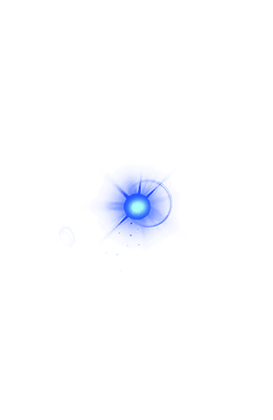
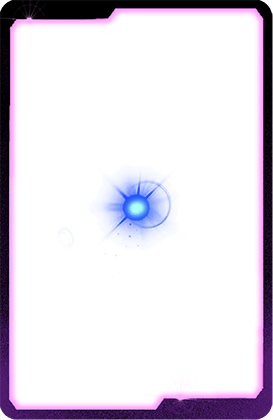
cache rage cards

diff --git a/src/constants/cacheUrls.ts b/src/constants/cacheUrls.ts
@@ -1,5 +1,6 @@
 import { MODIFIERS_RARITY } from "../data/modifiers";
 import { POWER_UP_KEYS } from "../data/powerups";
+import { RAGES_RARITY } from "../data/rageCards";
 import { SPECIALS_RARITY } from "../data/specialCards";
 import { CARDS_SUIT_DATA } from "../data/traditionalCards";
 
@@ -30,6 +31,16 @@ export const getDefaultImageUrls = async (): Promise<string[]> => {
     imageUrls.push(`Cards/3d/${key}-l0.png`);
     imageUrls.push(`Cards/3d/${key}-l1.png`);
     imageUrls.push(`Cards/3d/${key}-l2.png`);
+    imageUrls.push(`Cards/3d/${key}-l3.png`);
+  });
+
+  // Rage cards
+  Object.keys(RAGES_RARITY).forEach((key) => {
+    imageUrls.push(`Cards/${key}.png`);
+    imageUrls.push(`Cards/3d/${key}-l0.png`);
+    imageUrls.push(`Cards/3d/${key}-l1.png`);
+    imageUrls.push(`Cards/3d/${key}-l2.png`);
+    imageUrls.push(`Cards/3d/${key}-l3.png`);
   });
 
   // Backgrounds

diff --git a/src/providers/CardDataProvider.tsx b/src/providers/CardDataProvider.tsx
@@ -20,6 +20,7 @@ import {
 import { useDojo } from "../dojo/useDojo.tsx";
 import { CardTypes } from "../enums/cardTypes.ts";
 import { CardData } from "../types/CardData.ts";
+import { RAGES_RARITY } from "../data/rageCards.ts";
 
 interface CardDataContextType {
   getCardData: (id: number) => CardData;
@@ -76,10 +77,12 @@ export const CardDataProvider = ({ children }: CardDataProviderProps) => {
     const isModifier = cardId >= 600 && cardId < 700;
 
     if (isRage) {
+      const rarity = RAGES_RARITY[cardId];
       return {
         name: t(`rageCards.${cardId}.name`),
         description: t(`rageCards.${cardId}.description`),
         type: CardTypes.RAGE,
+        rarity,
       };
     } else if (isSpecial) {
       const rarity = SPECIALS_RARITY[cardId];

diff --git a/src/data/rageCards.ts b/src/data/rageCards.ts
@@ -1,0 +1,23 @@
+import { RARITY } from "../constants/rarity";
+
+export const RAGES_RARITY: Record<number, RARITY> = {
+  // C Grade
+  401: RARITY.C, // SILENT_HEARTS
+  402: RARITY.C, // SILENT_CLUBS
+  403: RARITY.C, // SILENT_DIAMONDS
+  404: RARITY.C, // SILENT_SPADES
+  412: RARITY.C, // SILENT_FIGURES
+  421: RARITY.C, // BETRAYING_THE_WEAK
+
+  // B Grade
+  405: RARITY.B, // SILENT_JOKERS
+  416: RARITY.B, // HAND_LEECH
+  420: RARITY.B, // DOUBLE_TROUBLE
+
+  // A Grade
+  406: RARITY.A, // DIMINISHED_HOLD
+
+  // S Grade
+  407: RARITY.S, // ZERO_WASTE
+  409: RARITY.S, // STRATEGIC_QUARTED
+};
